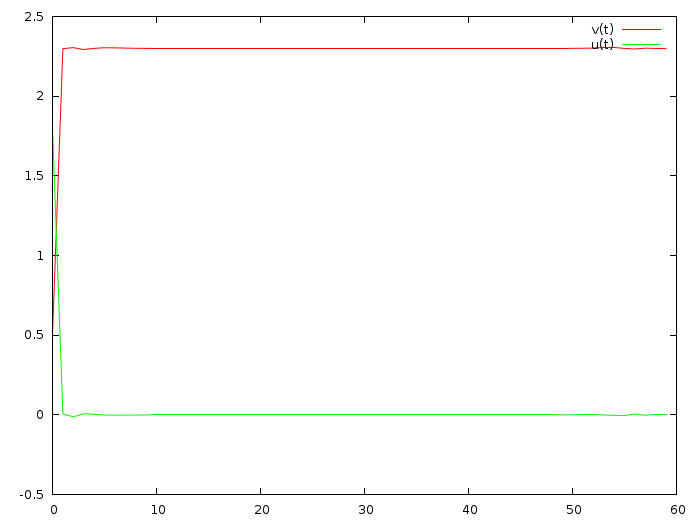
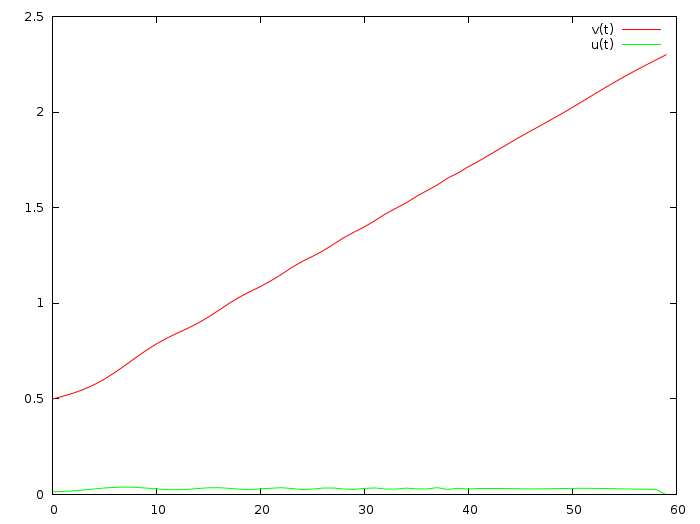
lqr: 2nd example

diff --git a/tutorials/lqr/main.cpp b/tutorials/lqr/main.cpp
@@ -40,9 +40,8 @@ int main() {
     }
 
     for (int i=0; i<N; i++) {
-        nlBegin(NL_ROW); // xi = xN, soft
-        nlCoefficient(i*2, 1);
-        nlRightHandSide(xN);
+        nlBegin(NL_ROW); // ui = 0, soft
+        nlCoefficient(i*2+1, 1);
         nlEnd(NL_ROW);
     }
 
